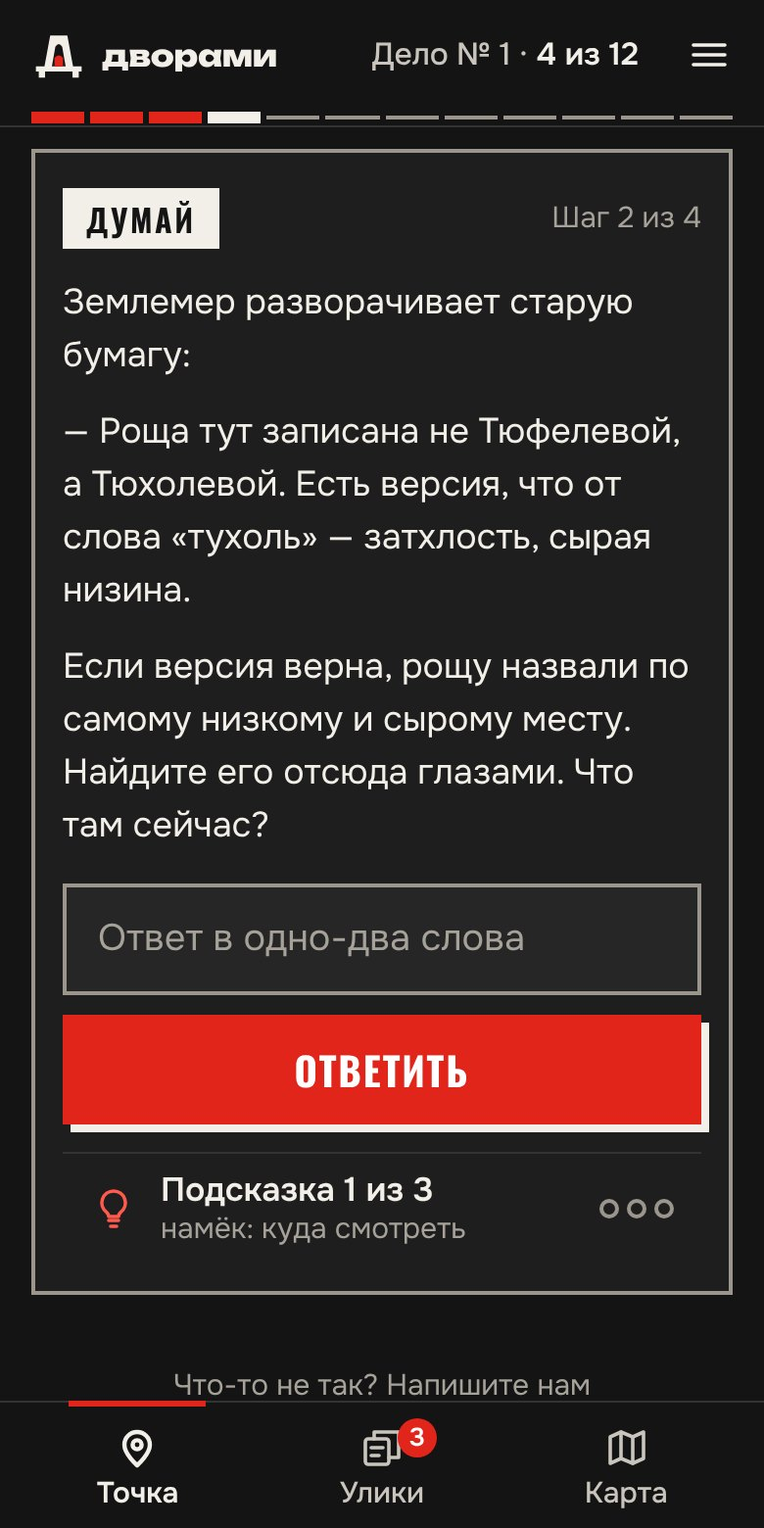
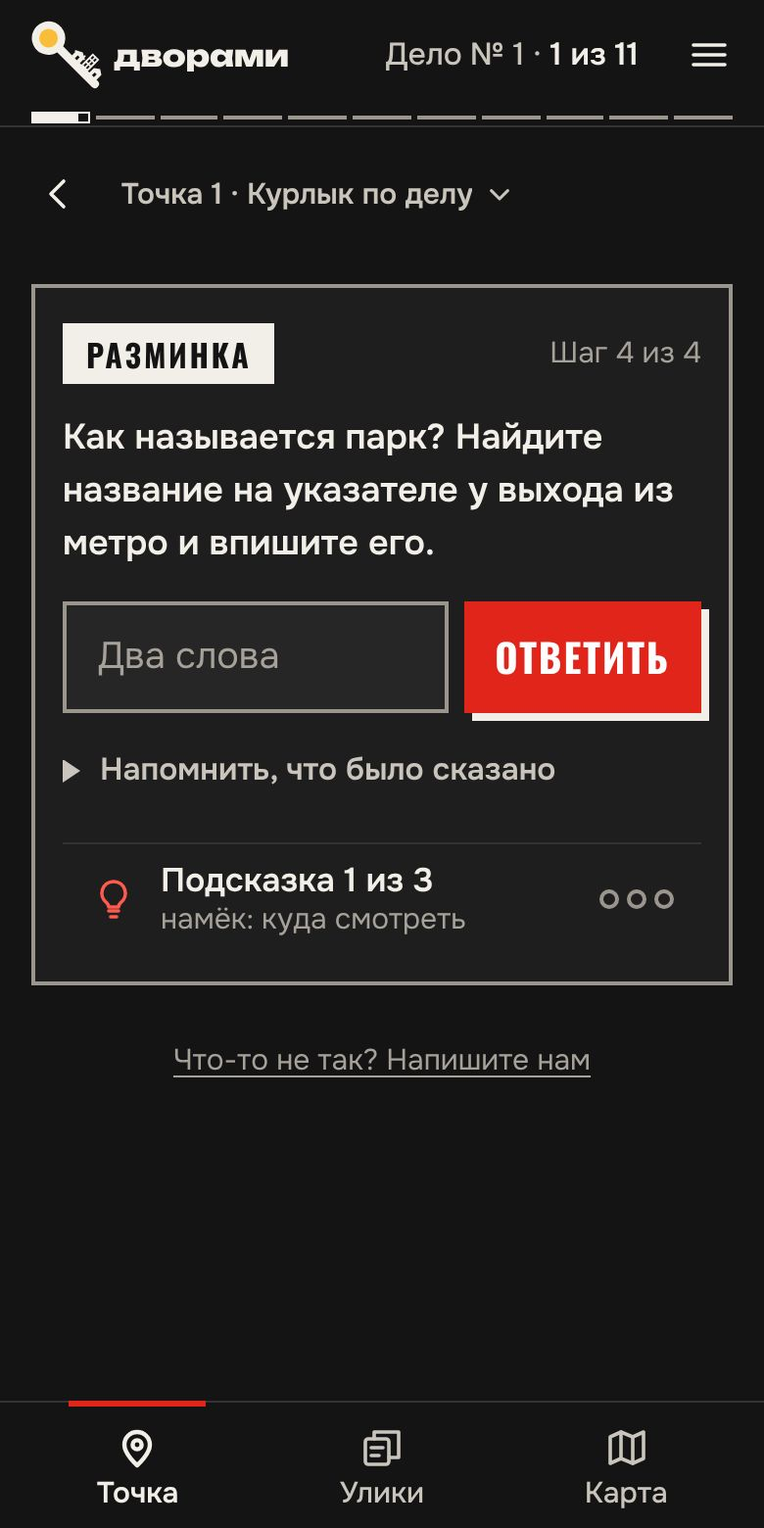
Главная, «Как это выглядит»: кадры плеера ЗИЛАРТа 5.5 вместо v3; сверка кадров и снятого на главной
frame-riddle.jpg (был экран v3: «4 из 12», реплика землемера, снятого в 5.5) и
frame-walk.jpg (v3: «5 из 12», «Форма для неба») пересняты с текущего плеера 5.5:
разминка т.1 «Как называется парк?» без ответа и дорога к т.3 с репликой Зили;
780×1560 JPEG q80, как прежде. alt — по новым экранам, без текста сцен.
scripts/player_frame.js — пересъёмка одной командой (дело без кода, как player_check
--data, точка и шаг из аргументов, стрелки-подсказки скрыты).
story_drift: platform/site/story-sync.json → screens (кадр → версия сценария; макет —
{"mockup": "почему"}): кадр со старой версии — красное «переснимите»; кадр assets/play/
на главной или в каталоге без записи — красное; снятое из сценария (retired.json)
ищется и в общих блоках главной и каталога, в alt. Обратные проверки: кадр 5.4,
кадр без записи, «землемер» в alt — краснеют.

Claude-Session: https://claude.ai/code/session_01HTbbVnH6ciWKjadneCiw9c

diff --git a/scripts/story_drift.js b/scripts/story_drift.js
@@ -15,6 +15,8 @@
  *     дела и в его карточках (текст и разметка), в OG (platform/site/og-manifest.json), в site/llms*.txt (строка дела и
  *     общие строки) и в постах канала (кроме status: published). Сравнение — как у ответов (answer_leaks.js): нормализация
  *     плеера, фраза с начала слова, последнее слово — как префикс («телеграмм» ловит «телеграммы»); число — целиком.
+ *     Кадры плеера на витрине (screens: файл → версия, scripts/player_frame.js) — с той же версии; кадр assets/play/ на главной
+ *     или в каталоге без записи в screens — ошибка. Снятое (в) ищется и в общих блоках главной и каталога (текст, alt, JSON-LD).
  * Пользуется site_check.js (и --sync). */
 'use strict';
 const fs = require('fs');
@@ -37,12 +39,18 @@ function scenarioVersion(id) {
   const N = Math.max(...n);
   return { v: 'v' + N, src: `quests/${id}/story/scenario-v${N}.md`, json: false };
 }
-function versionCheck(ids, sync, versionOf = scenarioVersion, syncName = rel(SYNC)) {
+function versionCheck(ids, sync, versionOf = scenarioVersion, syncName = rel(SYNC), exists = f => fs.existsSync(path.join(REPO, f))) {
   const errors = [], warns = [];
   for (const id of ids) {
     const cur = versionOf(id);
     if (!cur) continue;
     const rec = sync[id];
+    // кадры плеера на витрине (Продюсер 27.11: на главной висел экран v3 «4 из 12» с землемером) — с той же версии сценария
+    for (const [f, v] of Object.entries((rec && rec.screens) || {})) {
+      if (!exists(f)) { errors.push(`${syncName}: «${id}».screens — нет файла ${f}`); continue; }
+      if (v && typeof v === 'object') { if (!v.mockup || String(v.mockup).length < 10) errors.push(`${syncName}: «${id}».screens ${f} — макет без причины (mockup)`); continue; }
+      if (String(v) !== cur.v) errors.push(`кадр плеера ${f} снят со сценария ${v}, а дело «${id}» — ${cur.v} (${cur.src}): переснимите (node scripts/player_frame.js --quest=${id} …) и впишите ${cur.v} в ${syncName} → screens`);
+    }
     if (!rec || !rec.version) {
       (cur.json ? errors : warns).push(`${cur.src} (${cur.v}): в ${syncName} нет записи «${id}» — с какой версией сценария сверена витрина дела? Сверьте и впишите`);
       continue;
@@ -117,14 +125,30 @@ function retiredCheck(id, R, parts, where) {
 }
 
 // ---------- всё вместе ----------
+// кадры плеера (assets/play/…) на главной и в каталоге — каждый записан в story-sync.json → <id>.screens
+function screensCheck(sync, pages = HOME.map(f => [f, fs.readFileSync(path.join(REPO, 'site', f), 'utf8')]), syncName = rel(SYNC)) {
+  const known = new Set(Object.values(sync).flatMap(r => Object.keys((r && r.screens) || {})));
+  const out = [];
+  for (const [label, html] of pages) for (const m of String(html).matchAll(/<img\b[^>]*\ssrc="([^"]*assets\/play\/[^"]+)"/gi)) {
+    const f = 'site/' + m[1].replace(/^(\.\.\/)+/, '').replace(/^\//, '');
+    if (!known.has(f)) out.push(`${label}: кадр плеера ${f} не записан в ${syncName} → screens — с какой версии сценария он снят?`);
+  }
+  return out;
+}
+const HOME = ['index.html', 'moscow/index.html'].filter(f => fs.existsSync(path.join(REPO, 'site', f)));
+
 function check(opts = {}) {
   const errors = [], warns = [];
   const ids = opts.quest ? [opts.quest] : L.allIds();
   let sync = {};
   const syncFile = opts.sync ? path.resolve(opts.sync) : SYNC;
   try { sync = JSON.parse(fs.readFileSync(syncFile, 'utf8')); } catch (e) { errors.push(`${rel(syncFile)}: не читается — ${e.message}`); }
-  const v = versionCheck(ids, sync, scenarioVersion, opts.sync ? `${path.basename(syncFile)} (копия)` : rel(SYNC));
+  const syncName = opts.sync ? `${path.basename(syncFile)} (копия)` : rel(SYNC);
+  const v = versionCheck(ids, sync, scenarioVersion, syncName);
   errors.push(...v.errors); warns.push(...v.warns);
+  if (!opts.quest) errors.push(...screensCheck(sync, undefined, syncName));
+  // общие блоки главной и каталога (текст, alt, title, JSON-LD — corpusOf) — снятое любого дела тоже не встречается
+  const home = opts.html ? [] : HOME.map(f => L.corpusOf(fs.readFileSync(path.join(REPO, 'site', f), 'utf8'), null, f === 'index.html' ? 'главная' : f)).flat();
   for (const id of ids) {
     const corp = L.caseCorpus(id, opts.html);
     if (!corp) continue;
@@ -134,7 +158,7 @@ function check(opts = {}) {
     if (fs.existsSync(qf)) errors.push(...castCheck(id, html, JSON.parse(fs.readFileSync(qf, 'utf8')).speakers, corp.pg));
     const R = retiredOf(id);
     if (!(R.items || []).length && !R.error) continue;
-    const parts = corp.parts.concat(opts.html ? [] : L.extraParts(corp.slug, { llms: opts.llms, posts: opts.posts }))
+    const parts = corp.parts.concat(home, opts.html ? [] : L.extraParts(corp.slug, { llms: opts.llms, posts: opts.posts }))
       .concat(ogParts(corp.slug).map(p => Object.assign(p, { n: ' ' + L.norm(p.text) + ' ' })));
     errors.push(...retiredCheck(id, R, parts, corp.pg));
   }
@@ -150,6 +174,10 @@ function selftest() {
   const nv = vc({ md: { version: 'v3' } });
   if (nv.errors.length !== 1) out.push('(а) дело с quest.json без записи не краснеет');
   if (vc({ zz: { version: '5.6' } }).warns.length !== 1) out.push('(а) дело со сценарием-текстом без записи — нет предупреждения');
+  const sc = (screens, v = '5.6') => versionCheck(['zz'], { zz: { version: v, screens } }, id => ver[id], 'story-sync.json', () => true).errors;
+  if (sc({ 'site/assets/play/frame-riddle.jpg': '5.5' }).length !== 1) out.push('(а) кадр плеера со старой версии не краснеет');
+  if (sc({ 'site/assets/play/frame-riddle.jpg': '5.6', 'site/assets/play/m.jpg': { mockup: 'макет темы для дела без плеера' } }).length) out.push('(а) ложное срабатывание на кадре нужной версии или макете');
+  if (screensCheck({ zz: { screens: { 'site/assets/play/a.jpg': '1' } } }, [['fx', '<img src="assets/play/a.jpg"><img src="assets/play/b.jpg">']]).length !== 1) out.push('(а) кадр плеера без записи в screens не замечен');
   const sp = { a: { name: 'Зиля' }, b: { name: 'Тюфель' }, c: { name: 'Лёва' }, d: { name: 'Гоша' }, e: { name: 'Карточка свидетеля' } };
   const page = (dl, by) => `<section id="cast" class="c-sec"><blockquote class="c-quote">«…»<footer>${by}</footer></blockquote><dl class="c-people">${dl}</dl></section>`;
   const ok = page('<div><dt>Зиля</dt><dd>голубь. Ведёт дело.</dd></div><div><dt>Кот Тюфель</dt><dd>рыжий.</dd></div><div><dt>Свидетели</dt><dd>заводской оформитель Лёва и&nbsp;испытатель Гоша. Каждый расскажет своё.</dd></div>', 'Зиля, сыщик Бюро');

diff --git a/scripts/player_frame.js b/scripts/player_frame.js
@@ -1,0 +1,62 @@
+#!/usr/bin/env node
+/* Кадр плеера для витрины («Как это выглядит» на главной): экран дела в настоящем плеере site/play/<id>/.
+ *   node scripts/player_frame.js --quest=zilart --point=0 --step=3 --out=site/assets/play/frame-riddle.jpg
+ *   node scripts/player_frame.js --quest=zilart --point=2 --phase=walk --out=site/assets/play/frame-walk.jpg
+ *   [--theme=dark|light] [--quality=80]
+ * Дело открывается без кода (данные quests/<id>/quest.json подставляются, как в player_check --data), прогресс — точка
+ * --point (индекс с нуля) и шаг --step; плеер листается «Дальше» до поля ответа (phase=step) или до «Мы на месте» (walk).
+ * Подсказки интерфейса («стрелки») считаются увиденными. Окно 390×780 @2x → JPEG 780×1560 (team/std/site-check.md).
+ * Внешние запросы блокируются. Ответов на экране нет: поле пустое, подсказки закрыты.
+ * Сменилась версия сценария — переснять кадры и вписать версию в platform/site/story-sync.json → <id>.screens (story_drift.js). */
+'use strict';
+const { chromium } = require('playwright');
+const { spawn } = require('child_process');
+const path = require('path');
+const fs = require('fs');
+
+const args = Object.fromEntries(process.argv.slice(2).map(a => { const m = a.match(/^--([\w-]+)(?:=(.*))?$/); return m ? [m[1], m[2] == null ? true : m[2]] : [a, true]; }));
+const REPO = path.resolve(__dirname, '..');
+const QID = args.quest || 'zilart';
+const QF = path.join(REPO, 'quests', QID, 'quest.json');
+const phase = args.phase || 'step';
+if (!args.out || !fs.existsSync(QF)) { console.error('нужно --out=путь.jpg и quests/<id>/quest.json'); process.exit(2); }
+const PORT = 8000 + Math.floor(Math.random() * 900);
+
+(async () => {
+  const srv = spawn('python3', ['-m', 'http.server', String(PORT), '--bind', '127.0.0.1'], { cwd: path.join(REPO, 'site'), stdio: 'ignore' });
+  await new Promise(r => setTimeout(r, 800));
+  const b = await chromium.launch();
+  const ctx = await b.newContext({ viewport: { width: 390, height: 780 }, deviceScaleFactor: 2, reducedMotion: 'reduce' });
+  const page = await ctx.newPage();
+  const errs = [];
+  page.on('pageerror', e => errs.push(String(e)));
+  await page.route('**/*', r => {
+    const u = r.request().url();
+    if (!u.startsWith(`http://127.0.0.1:${PORT}`)) return r.abort();
+    if (/quest\.locked\.json/.test(u)) return r.fulfill({ status: 404 });
+    if (/\/quest\.json(\?|$)/.test(u)) return r.fulfill({ path: QF, contentType: 'application/json' });
+    return r.continue();
+  });
+  const q = JSON.parse(fs.readFileSync(QF, 'utf8'));
+  const seen = Object.fromEntries(['sound', 'image', 'board', 'hint', 'plus', 'letter', 'plan'].map(k => [k, 'shown']));
+  const st = { v: 1, quest: QID, version: q.version, phase, p: +(args.point || 0), k: +(args.step || 0), hint: 0, res: [], board: [], events: [],
+    t_start: Date.now() - 1800000, f: -1, seed: 12345, arrows: seen };
+  await page.addInitScript(([t, key, s]) => { try { localStorage.setItem('dvorami:theme', t); localStorage.setItem(key, s); } catch (e) {} },
+    [args.theme || 'dark', 'dvorami:play:' + QID, JSON.stringify(st)]);
+  await page.goto(`http://127.0.0.1:${PORT}/play/${QID}/`, { waitUntil: 'networkidle' });
+  await page.waitForTimeout(800);
+  const target = phase === 'step' ? '#ans' : '[data-act="here"]';
+  for (let i = 0; i < 15 && !(await page.$(target)); i++) {
+    const n = await page.$('#app .pl-bar [data-act="next"], #app .pl-bar [data-act="fwd"]');
+    if (!n) break;
+    await n.click(); await page.waitForTimeout(350);
+  }
+  if (!(await page.$(target))) { console.error(`не дошли до экрана ${target}`); await b.close(); srv.kill(); process.exit(1); }
+  await page.evaluate(() => { if (document.activeElement) document.activeElement.blur(); scrollTo(0, 0); });
+  await page.waitForTimeout(250);
+  await page.screenshot({ path: args.out, type: 'jpeg', quality: +(args.quality || 80) });
+  const head = await page.$eval('.pl-top', e => e.innerText.replace(/\s+/g, ' ')).catch(() => '');
+  console.log(`${args.out}: ${QID} ${q.version}, ${head}${errs.length ? ' · ошибки JS: ' + errs.join('; ') : ''}`);
+  await b.close(); srv.kill();
+  process.exit(errs.length ? 1 : 0);
+})().catch(e => { console.error(e); process.exit(2); });

diff --git a/site/index.html b/site/index.html
@@ -283,8 +283,8 @@
     </div>
     <div class="fan">
       <figure class="fan-phone fan-phone--back"><span class="fan-n" aria-hidden="true">1</span><div class="phone-frame"><img src="assets/play/frame-case4.jpg" alt="Экран дела №4 в синем оформлении «Чертёж»: задание с пометкой от руки, поле ответа, кнопка «Ответить» и подсказка" width="780" height="1560" loading="lazy"></div></figure>
-      <figure class="fan-phone"><span class="fan-n" aria-hidden="true">2</span><div class="phone-frame"><img src="assets/play/frame-riddle.jpg" alt="Экран дела №1: задание «Думай», поле ответа, кнопка «Ответить», подсказка 1 из 3 и разделы «Точка», «Улики», «Карта» внизу" width="780" height="1560" loading="lazy"></div></figure>
-      <figure class="fan-phone fan-phone--back"><span class="fan-n" aria-hidden="true">3</span><div class="phone-frame"><img src="assets/play/frame-walk.jpg" alt="Экран дела №1: сколько идти до точки, как дойти, кнопки «Открыть в Яндекс Картах» и «Мы на месте»" width="780" height="1560" loading="lazy"></div></figure>
+      <figure class="fan-phone"><span class="fan-n" aria-hidden="true">2</span><div class="phone-frame"><img src="assets/play/frame-riddle.jpg" alt="Экран дела №1: разминка на первой точке — вопрос, поле ответа, кнопка «Ответить», подсказка 1 из 3 и разделы «Точка», «Улики», «Карта» внизу" width="780" height="1560" loading="lazy"></div></figure>
+      <figure class="fan-phone fan-phone--back"><span class="fan-n" aria-hidden="true">3</span><div class="phone-frame"><img src="assets/play/frame-walk.jpg" alt="Экран дела №1: реплика голубя Зили, сколько идти до точки, кнопки «Открыть в Яндекс Картах» и «Мы на месте»" width="780" height="1560" loading="lazy"></div></figure>
     </div>
     <ol class="screen-notes">
       <li><b>Расследование ведёте вы</b>В&nbsp;ведомости 1936&nbsp;года кто-то вписал чужие записи. У&nbsp;принцессы Турандот пропала загадка. Кто и&nbsp;зачем, выясняете вы: улики находите на&nbsp;улицах, а&nbsp;разгадку называете сами.</li>

diff --git a/team/std/site-check.md b/team/std/site-check.md
@@ -6,7 +6,7 @@
 - Типографика: одна роль — один размер (заголовки секций, надзаголовки, кнопки карточек, подписи на схемах и картах); тесноту решать раскладкой, а не уменьшением шрифта. Скрипт это проверяет; новая роль — добавить её в список в `site_check.js`. Осознанное исключение — `data-size-exception="почему"` на элементе и комментарий в CSS.
 - Скриншоты всей страницы на 390 и 1440 (Playwright, внешние запросы заблокированы), посмотреть их глазами (Read). Если где-то стало хуже прежнего — не сдавать. В репозиторий — только те, на которые ссылается отчёт или документ, и в JPEG q80 (`site_check.js --shots` так и пишет); полностраничный PNG (2–10 МБ) не коммитить, PNG — только для мелких фрагментов до ~300 КБ.
 - Страницы дел и карточки дел в каталогах (главная, `/moscow/`) руками не правятся: данные `platform/site/cases/c*.py` (карточка — поле `card`) → `python3 scripts/build_cases.py`; картинки мест — `python3 scripts/make_case_art.py`; OG-картинка дела (превью в мессенджерах) — `python3 scripts/make_og.py` из `card` (руками не рисуется). `site_check` сверяет цифры страницы и карточки с `quests/<id>/quest.json` (точки без эпилога, км, часы, финиш) и OG — с карточкой; быстрая сверка без браузера — `node scripts/site_check.js --sync` (первый шаг `pages.yml`: красная — выкладки нет). Новое дело — свой `og_image` и тема в `THEMES` `make_og.py`, а не общий `main.png`. Текст OG на превью шириной 600 px — не мельче 11 px (22 px в шаблоне 1200; H-114): `make_og.py` меряет и пишет `min_px_600` в манифест, мельче — ошибка «сократите строку»; тесноту решать сокращением `card`, а не шрифтом. `site/llms.txt` (и любые `site/llms*.txt`, пишутся руками) `--sync` сверяет с делами (H-108): номер и название = табличке страницы, первые «N точек», «около X км», «A–B часа» = `quest.json` (или цифрам страницы у дела без сценария), «Статус:» = странице, ссылки и якоря живые, каждое дело есть строкой, спойлеры `site_spoilers.json` («*» — во всём файле, ключ дела — в его строке). Поменяли цифры или статус дела — поправить и `llms.txt`. Предупреждением — `<title>` дела > 60 и description > 160 знаков (поисковик обрежет). Временные объекты маршрута (H-111, `docs/quest-format.md`, «Временные объекты»): за 30 дней до `until` — предупреждение (и одно сообщение владельцу в Telegram, H-118), после — красное со страницами витрины, где объект упомянут; самопроверка на фикстуре идёт в каждом `site_check`. Плеер после срока сам снимает элемент и ставит ветку `flag` (H-117) — в `player_check` это предупреждение, а запись без `flag` — красное; проверка на дату — `node scripts/player_check.js --today=2027-01-18`. Ответы загадок `site_check` (и `--sync`) берёт из сценария сам (`scripts/answer_leaks.js`): канонический ответ и основы «~» полей с вводом, верный вариант `choice` из `quest.json`, у дела без него — «Ответ: «…»» последнего `story/scenario-v*.md`; ответ на витрине дела или в его карточке (текст, alt, title, meta, JSON-LD, имена файлов, текст SVG), в `site/llms*.txt` (строка дела — его ответы, строки без дела — ответы всех) и в постах канала `docs/marketing/channel/posts/*.md` кроме `status: published` (H-119) — красное; обратная проверка — `--llms=копия.txt`, `--posts=папка`. Исключение только для своих мест — `"only": "<часть пути>"`. Осознанная находка — в `scripts/answer_leaks.json` → `ok` с причиной (`"warn": true` — ждёт решения Сценариста, жёлтая); исключение, которое ничего не снимает, — снять. Ручной `site_spoilers.json` остаётся для улик и разгадок, которых нет среди ответов. Колонку «Где у игрока» в `quests/*/research/facts.md` сверяет `scripts/facts_check.py` (формат — `docs/facts-format.md`): ❌ у игрока (и битая ссылка у факта ❌) — красное; мёртвый путь в `quest.json` у остальных фактов — предупреждение, выкладку не блокирует (T-138); не ✅ у игрока, сокращённый путь, ссылка на текст без ключевых слов факта — предупреждение. Новая проверка — с обратной: `node scripts/answer_leaks.js --quest=krasnaya-ploshchad --html=<копия c54390a~1>` краснеет на «Иверская».
-- Витрина ↔ сценарий (T-140, `scripts/story_drift.js`, идёт и в `--sync`): версия, с которой сверена витрина дела (`platform/site/story-sync.json`), = `version` в `quest.json` (у дела без него — vN последнего `story/scenario-vN.md`), иначе красное «витрина не пересверена со сценарием vX»; герои «Кто ведёт дело» (`<dt>`, подпись цитаты; в строке «Свидетели» — имена с заглавной) — среди `speakers`; снятое из сценария (`quests/<id>/retired.json`: имена, годы, фразы, у каждой `why`) — нигде на витрине дела, в карточках, OG, `site/llms*.txt` и постах (кроме published). Обратная проверка: `node scripts/story_drift.js --sync=копия.json`, `--quest=zilart --html=копия.html`, `--llms=копия.txt`.
+- Витрина ↔ сценарий (T-140, `scripts/story_drift.js`, идёт и в `--sync`): версия, с которой сверена витрина дела (`platform/site/story-sync.json`), = `version` в `quest.json` (у дела без него — vN последнего `story/scenario-vN.md`), иначе красное «витрина не пересверена со сценарием vX»; герои «Кто ведёт дело» (`<dt>`, подпись цитаты; в строке «Свидетели» — имена с заглавной) — среди `speakers`; снятое из сценария (`quests/<id>/retired.json`: имена, годы, фразы, у каждой `why`) — нигде на витрине дела, в карточках, OG, `site/llms*.txt` и постах (кроме published). Кадры плеера на витрине (`assets/play/`, «Как это выглядит») записаны в `story-sync.json` → `screens` с версией сценария, с которой сняты, и переснимаются `node scripts/player_frame.js` при новой версии (27.11: на главной висел экран v3 с землемером); снятое ищется и в общих блоках главной и каталога, в alt картинок. Обратная проверка: `node scripts/story_drift.js --sync=копия.json`, `--quest=zilart --html=копия.html`, `--llms=копия.txt`.
 - «Проба» на главной и витринах марок (`section#probe`, `[data-lamp]`; владелец 27.11): факт — ✅ из `quests/*/research/facts.md`, ссылка — из белого списка; факта нет ни в одном маршруте и черновике: текст пробы не совпадает ни с одним ответом ни одного дела, а вопрос и ответ не делят пары значимых слов со строками черновиков (`draft*.md`), «Ответ:» сценариев всех версий и текстами `quest.json` (`answer_leaks.js` → `checkProbes`, и в `--sync`) — при совпадении меняется факт пробы, исключений нет; факт записан в `quests/_site/research/facts.md` («Где у игрока: сайт: главная, проба»); блок пробы на 390 — не выше 700 px; ссылка в неосвещённом ответе вне Tab (`tabindex=-1`), `site_check` проходит пробу настоящим Tab; без JS и при reduced-motion ответ и следующий шаг видны сразу, с JS кнопка света ≥ 44 px проявляет ответ с клавиатуры и переводит фокус на следующий шаг (`site_check`, 390).
 - Тон текстов сайта (T-65): `site_check` печатает «✗ штампы машинного текста» по списку `docs/marketing/tone-of-voice.md` (механическая часть — `scripts/tone_stamps.json`, общий с `channel_post.py`). Текст правит Автор; ложное срабатывание — в `site_exceptions` с причиной. С 27.11 — красное (ошибка), не предупреждение.
 - После push с `site/**` — workflow Pages зелёный, тогда ссылка в отчёте. Статус проверяет Продюсер **до отчёта**: `python3 scripts/pages_status.py` (0 — стенд обновлён; 1 — красная выкладка: в отчёте «на стенде старая версия» и упавший шаг, а не «витрина синхронизирована»; 2 — ещё идёт, подождать; 3 — API недоступен: «не проверено, см. Actions»). Упавшая выкладка сама шлёт владельцу тревогу в Telegram (job `alarm` в `pages.yml`, 27.11: 7 красных выкладок подряд остались незамеченными).
